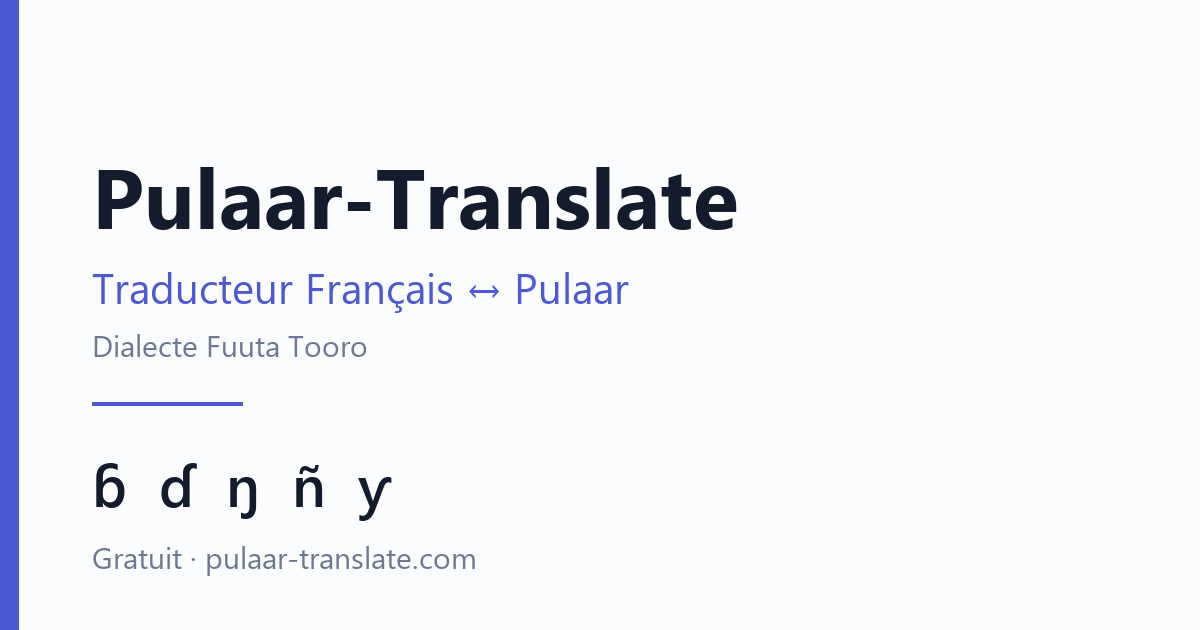
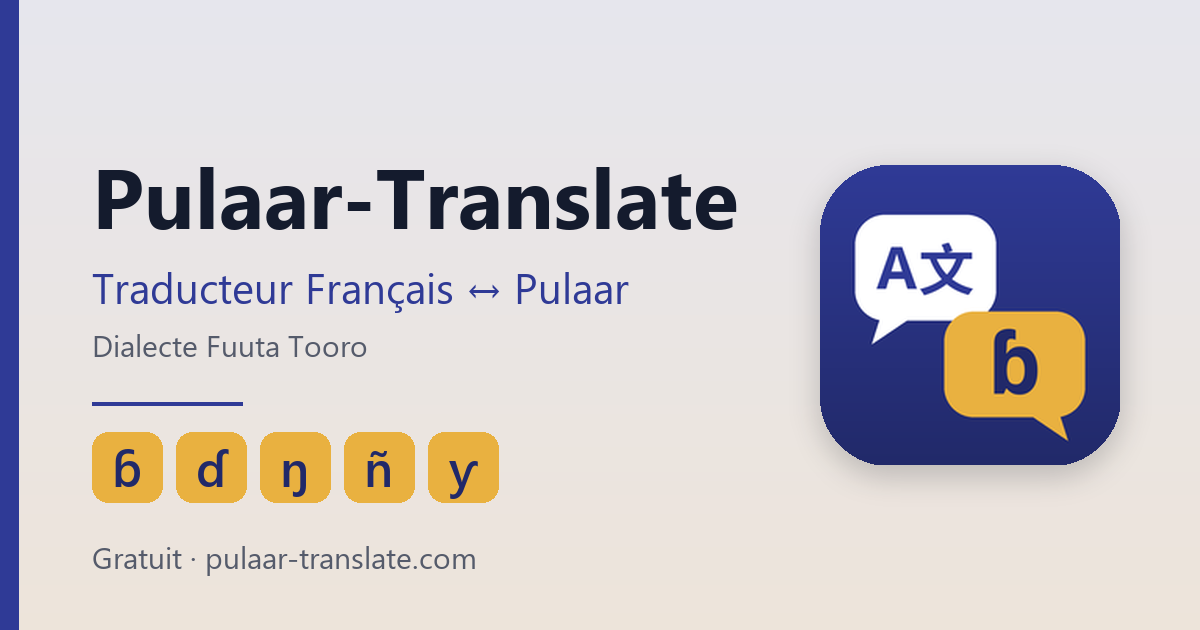
feat(design): charte Indigo nuit sur le site, comme les apps
- indigo nuit pour l'action, fond blanc sous le dégradé de l'icône (indigo vers or) ;
- la traduction dans une carte d'or, les lettres du pulaar en or, le choix actif en or ;
- logo (icône de l'app), favicon et apple-touch-icon ; image de partage refaite ;
- pages confidentialité et admin : même palette ;
- texte blanc remplacé par --sur-accent (le blanc sur l'indigo clair du mode sombre
  ne faisait que 2,7:1) ;
- correctif : [hidden] n'était pas appliqué, le formulaire de correction s'affichait
  dès la traduction au lieu d'attendre le clic sur « Non ».

diff --git a/public/index.html b/public/index.html
@@ -20,29 +20,48 @@
 <meta name="twitter:image" content="https://www.pulaar-translate.com/og-image.png">
 <meta name="twitter:title" content="Pulaar-Translate — Traducteur Français ↔ Pulaar">
 <meta name="twitter:description" content="Traduction automatique français ↔ pulaar, dialecte Fuuta Tooro. Gratuit.">
-<meta name="theme-color" content="#4c58d4">
+<meta name="theme-color" content="#2f3a96">
+<link rel="icon" type="image/png" sizes="192x192" href="/icone-192.png">
+<link rel="apple-touch-icon" href="/apple-touch-icon.png">
 <style>
+  /* Charte « Indigo nuit », la même que les apps (Haal Pulaar, Pulaar
+     Translate) : l'indigo nuit pour l'action, l'or pour le pulaar (touches et
+     carte du résultat), un fond blanc sur lequel descend le dégradé de
+     l'icône, de l'indigo vers l'or. Contrastes vérifiés : texte 7:1, texte
+     discret 5,4:1 sur tout le dégradé, écriture sur l'accent et sur l'or 4,5:1. */
   :root{
-    --encre:#141b2d; --doux:#5b6579; --trait:#e2e6ee;
-    --fond:#fbfcfe; --carte:#fff; --accent:#4c58d4; --accent-clair:#eef0ff;
+    --encre:#141b2d; --doux:#555b6b; --trait:#e4e6ec;
+    --fond:#ffffff; --carte:#fff; --accent:#2f3a96; --accent-clair:#eceef8;
+    --sur-accent:#fff; --or:#e9b140; --sur-or:#212969;
     --alerte:#9a3d12; --alerte-fond:#fff4ec;
+    --degrade:linear-gradient(180deg,#e6e6ed,#ede4da);
   }
   @media (prefers-color-scheme: dark){
     :root{
-      --encre:#e9edf5; --doux:#9aa4b8; --trait:#2a3141;
-      --fond:#0f131c; --carte:#161b27; --accent:#8b95f5; --accent-clair:#1e2235;
+      --encre:#ecedf1; --doux:#b5b8c2; --trait:#33363f;
+      --fond:#16181d; --carte:#23262d; --accent:#a3abf7; --accent-clair:#2d3150;
+      --sur-accent:#141b2d;
       --alerte:#f0b487; --alerte-fond:#2a1f16;
+      --degrade:linear-gradient(180deg,#323448,#3d3731);
     }
   }
   *{box-sizing:border-box}
+  [hidden]{display:none !important}
   body{
     margin:0; background:var(--fond); color:var(--encre);
+    /* Le dégradé de l'icône reste en place quand la page défile. */
+    background-image:var(--degrade); background-attachment:fixed;
+    min-height:100vh;
     font:16px/1.6 system-ui,-apple-system,"Segoe UI",Roboto,sans-serif;
   }
   .page{max-width:900px; margin:0 auto; padding:32px 20px 64px}
   header{margin-bottom:28px}
   .haut{display:flex; justify-content:space-between; align-items:flex-start;
         gap:16px; flex-wrap:wrap}
+  .marque{display:flex; gap:16px; align-items:flex-start}
+  .logo{width:64px; height:64px; border-radius:15px; flex-shrink:0;
+        box-shadow:0 2px 10px rgba(20,27,45,.18)}
+  @media (max-width:520px){ .logo{width:48px; height:48px; border-radius:11px} }
   h1{font-size:1.65rem; margin:0 0 6px; letter-spacing:-.02em}
   .sous{color:var(--doux); margin:0 0 4px}
   .credits{color:var(--doux); font-size:.85rem; margin:10px 0 0}
@@ -55,8 +74,9 @@
     border:1px solid var(--trait); background:transparent; color:var(--doux);
     border-radius:99px; cursor:pointer;
   }
+  /* Le choix actif prend l'or, comme l'onglet choisi dans les apps. */
   .langues button[aria-pressed="true"]{
-    background:var(--accent-clair); color:var(--accent); border-color:transparent;
+    background:var(--or); color:var(--sur-or); border-color:transparent;
   }
   /* Sous la grille, avec le meme espacement qu'entre les deux cartes. */
   .avis{
@@ -81,7 +101,7 @@
   .barre > div{flex:1; min-width:180px}
   button{
     font:inherit; font-weight:600; border:0; border-radius:9px;
-    padding:11px 22px; cursor:pointer; background:var(--accent); color:#fff;
+    padding:11px 22px; cursor:pointer; background:var(--accent); color:var(--sur-accent);
   }
   button:disabled{opacity:.55; cursor:progress}
   button.secondaire{background:var(--accent-clair); color:var(--accent)}
@@ -116,16 +136,31 @@
   .clavier{margin-top:10px}
   .clavier-aide{font-size:.78rem; color:var(--doux); margin:0 0 7px}
   .touches{display:flex; gap:6px; flex-wrap:wrap}
+  /* Les lettres du pulaar sont en or, comme la bulle « ɓ » de l'icône. */
   .touches button{
     font:inherit; font-size:1.05rem; font-weight:600; line-height:1;
     padding:8px 0; min-width:40px; text-align:center;
-    background:var(--accent-clair); color:var(--accent);
+    background:var(--or); color:var(--sur-or);
     border:1px solid transparent; border-radius:8px;
   }
-  .touches button:hover{border-color:var(--accent)}
+  .touches button:hover{border-color:var(--sur-or)}
   .retour-etat{font-size:.85rem; margin:10px 0 0; min-height:1.3em; color:var(--doux)}
   .retour-etat.ok{color:var(--accent)}
   .retour-etat.erreur{color:var(--alerte)}
+
+  /* La traduction est la bulle d'or de l'icône : texte en encre, boutons et
+     filets en indigo foncé, comme la carte du résultat dans les apps. Les
+     variables sont redéfinies sur la carte, tout ce qu'elle contient suit. */
+  .carte:has(#sortie:not(.vide)){
+    background:var(--or); border-color:transparent; color:var(--encre);
+    --encre:#141b2d; --doux:#212969; --trait:rgba(33,41,105,.35);
+    --accent:#212969; --accent-clair:transparent; --sur-accent:#fff;
+    --alerte:#6b2308; --alerte-fond:transparent;
+  }
+  .carte:has(#sortie:not(.vide)) button.secondaire{border:1px solid var(--accent)}
+  .carte:has(#sortie:not(.vide)) .touches button{background:transparent; border-color:var(--accent)}
+  .carte:has(#sortie:not(.vide)) textarea:focus,
+  .carte:has(#sortie:not(.vide)) input:focus{outline-color:var(--accent)}
 
   footer{margin-top:40px; padding-top:20px; border-top:1px solid var(--trait);
          color:var(--doux); font-size:.85rem}
@@ -137,11 +172,14 @@
 
   <header>
     <div class="haut">
-      <div>
+      <div class="marque">
+        <img class="logo" src="/icone-192.png" width="64" height="64" alt="">
+        <div>
         <h1 data-i18n="titre">Pulaar-Translate — Traducteur Français ↔ Pulaar</h1>
         <p class="sous" data-i18n="accroche">Dialecte Fuuta Tooro · modèle NLLB affiné sur un corpus validé par des locuteurs natifs</p>
         <p class="credits" data-i18n="credits.fonde">Fondé par Hamath Kane et Abou Sy</p>
         <p class="credits" data-i18n="credits.avec">Contributions de Bocar Amadou Ba (ARPRIM), Alassane Mountaga Sall « Dembel », Hamet Amadou Ly, Bacca Bah et Oumar El Hadj Thiam, sur le traducteur comme sur le modèle de langue en développement.</p>
+        </div>
       </div>
       <nav class="langues" id="langues"></nav>
     </div>

diff --git a/public/admin.html b/public/admin.html
@@ -9,14 +9,14 @@
 <title>Retours — Pulaar-Translate</title>
 <style>
   :root{
-    --encre:#141b2d; --doux:#5b6579; --trait:#e2e6ee;
-    --fond:#fbfcfe; --carte:#fff; --accent:#4c58d4; --accent-clair:#eef0ff;
+    --encre:#141b2d; --doux:#555b6b; --trait:#e4e6ec;
+    --fond:#ffffff; --carte:#fff; --accent:#2f3a96; --accent-clair:#eceef8; --sur-accent:#fff;
     --alerte:#9a3d12; --alerte-fond:#fff4ec; --bon:#1d6b45; --bon-clair:#e8f5ee;
   }
   @media (prefers-color-scheme: dark){
     :root{
-      --encre:#e9edf5; --doux:#9aa4b8; --trait:#2a3141;
-      --fond:#0f131c; --carte:#161b27; --accent:#8b95f5; --accent-clair:#1e2235;
+      --encre:#ecedf1; --doux:#b5b8c2; --trait:#33363f;
+      --fond:#16181d; --carte:#23262d; --accent:#a3abf7; --accent-clair:#2d3150; --sur-accent:#141b2d;
       --alerte:#f0b487; --alerte-fond:#2a1f16; --bon:#7fd1a5; --bon-clair:#15291f;
     }
   }
@@ -33,7 +33,7 @@
   input,select,textarea{width:100%; font:inherit; color:inherit; background:transparent;
         border:1px solid var(--trait); border-radius:9px; padding:10px}
   button{font:inherit; font-weight:600; border:0; border-radius:9px;
-         padding:9px 18px; cursor:pointer; background:var(--accent); color:#fff}
+         padding:9px 18px; cursor:pointer; background:var(--accent); color:var(--sur-accent)}
   button.secondaire{background:var(--accent-clair); color:var(--accent)}
   button:disabled{opacity:.5; cursor:not-allowed}
   .rangee{display:flex; gap:10px; align-items:center; flex-wrap:wrap}

diff --git a/public/confidentialite.html b/public/confidentialite.html
@@ -6,16 +6,19 @@
 <title>Confidentialité — Pulaar-Translate</title>
 <meta name="description" content="Politique de confidentialité du site et de l'application Pulaar-Translate.">
 <link rel="canonical" href="https://www.pulaar-translate.com/confidentialite.html">
-<meta name="theme-color" content="#4c58d4">
+<meta name="theme-color" content="#2f3a96">
+<link rel="icon" type="image/png" sizes="192x192" href="/icone-192.png">
+<link rel="apple-touch-icon" href="/apple-touch-icon.png">
 <style>
+  /* Charte « Indigo nuit », comme la page d'accueil et les apps. */
   :root{
-    --encre:#141b2d; --doux:#5b6579; --trait:#e2e6ee;
-    --fond:#fbfcfe; --carte:#fff; --accent:#4c58d4;
+    --encre:#141b2d; --doux:#555b6b; --trait:#e4e6ec;
+    --fond:#ffffff; --carte:#fff; --accent:#2f3a96;
   }
   @media (prefers-color-scheme: dark){
     :root{
-      --encre:#e9edf5; --doux:#9aa4b8; --trait:#2a3141;
-      --fond:#0f131c; --carte:#161b27; --accent:#8b95f5;
+      --encre:#ecedf1; --doux:#b5b8c2; --trait:#33363f;
+      --fond:#16181d; --carte:#23262d; --accent:#a3abf7;
     }
   }
   *{box-sizing:border-box}

diff --git a/tools/og-image.py b/tools/og-image.py
@@ -12,16 +12,22 @@ web courantes.
 
     python tools/og-image.py
 """
-from PIL import Image, ImageDraw, ImageFont
+from PIL import Image, ImageDraw, ImageFilter, ImageFont
 
 LARGEUR, HAUTEUR = 1200, 630
 SORTIE = 'public/og-image.png'
 
+# Charte « Indigo nuit » (la même que les apps et le site) : l'indigo nuit, l'or du
+# pulaar, et le dégradé de l'icône, de l'indigo vers l'or, adouci pour le fond.
 ENCRE = (20, 27, 45)
-ACCENT = (76, 88, 212)
-DOUX = (110, 120, 145)
-FOND = (251, 252, 254)
-SPECIAUX = 'ɓ  ɗ  ŋ  ñ  ƴ'
+ACCENT = (47, 58, 150)
+INDIGO_FONCE = (33, 41, 105)
+OR = (233, 177, 64)
+DOUX = (85, 91, 107)
+FOND_HAUT = (230, 230, 237)
+FOND_BAS = (237, 228, 218)
+SPECIAUX = ['ɓ', 'ɗ', 'ŋ', 'ñ', 'ƴ']
+ICONE = 'public/icone-192.png'
 
 
 def police(nom, taille):
@@ -34,8 +40,11 @@ def largeur_texte(d, texte, font):
 
 
 def main():
-    img = Image.new('RGB', (LARGEUR, HAUTEUR), FOND)
+    img = Image.new('RGB', (LARGEUR, HAUTEUR), FOND_HAUT)
     d = ImageDraw.Draw(img)
+    for y in range(HAUTEUR):
+        k = y / (HAUTEUR - 1)
+        d.line([(0, y), (LARGEUR, y)], fill=tuple(round(a + (b - a) * k) for a, b in zip(FOND_HAUT, FOND_BAS)))
 
     # bande d'accent a gauche, pour que la vignette reste identifiable meme
     # tres reduite
@@ -44,7 +53,7 @@ def main():
     f_titre = police('segoeuib.ttf', 84)
     f_sous = police('segoeui.ttf', 42)
     f_note = police('segoeui.ttf', 30)
-    f_spec = police('seguisb.ttf', 58)
+    f_spec = police('seguisb.ttf', 50)
 
     x = 92
     d.text((x, 138), 'Pulaar-Translate', font=f_titre, fill=ENCRE)
@@ -54,8 +63,25 @@ def main():
     # filet de separation
     d.rectangle([x, 402, x + 150, 405], fill=ACCENT)
 
-    d.text((x, 444), SPECIAUX, font=f_spec, fill=ENCRE)
+    # les lettres du pulaar en or, comme les touches de l'app et du site
+    cx = x
+    for c in SPECIAUX:
+        d.rounded_rectangle([cx, 432, cx + 70, 502], radius=16, fill=OR)
+        d.text((cx + 35, 466), c, font=f_spec, fill=INDIGO_FONCE, anchor='mm')
+        cx += 84
     d.text((x, 536), 'Gratuit · pulaar-translate.com', font=f_note, fill=DOUX)
+
+    # l'icone de l'app, a droite
+    taille = 300
+    ic = Image.open(ICONE).convert('RGB').resize((taille, taille), Image.LANCZOS)
+    masque = Image.new('L', (taille, taille), 0)
+    ImageDraw.Draw(masque).rounded_rectangle([0, 0, taille, taille], radius=68, fill=255)
+    ombre = Image.new('RGBA', (LARGEUR, HAUTEUR), (0, 0, 0, 0))
+    ox, oy = 820, 165
+    ImageDraw.Draw(ombre).rounded_rectangle([ox, oy + 10, ox + taille, oy + 10 + taille], radius=68, fill=(20, 27, 45, 55))
+    ombre = ombre.filter(ImageFilter.GaussianBlur(14))
+    img.paste(Image.alpha_composite(img.convert('RGBA'), ombre).convert('RGB'))
+    img.paste(ic, (ox, oy), masque)
 
     img.save(SORTIE, 'PNG', optimize=True)
 
